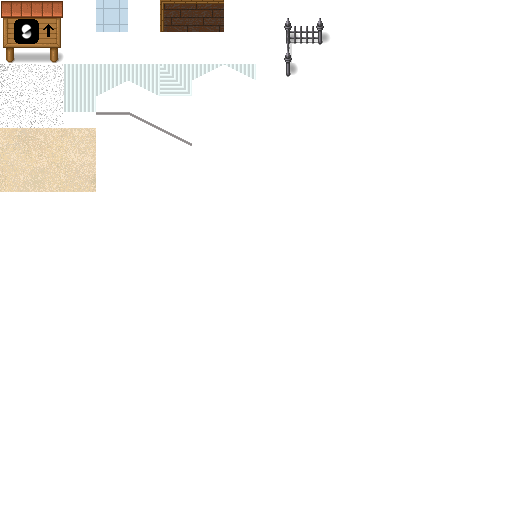
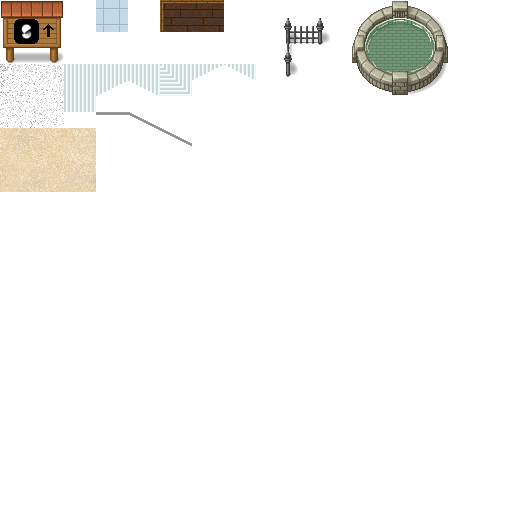
adds our waterfall vs0.1 alpha

Changed region(s): [[0.6875, 0.0, 0.875, 0.1875]]

diff --git a/COPYRIGHT.md b/COPYRIGHT.md
@@ -12,3 +12,5 @@ Dateiname | Lizenz | Quelle
 `sipgate-tileset-1.png` | ? | created by Mathias, some tiles baed on fantasy.png
 `plants.png` | CC-BY-SA 3.0 | https://opengameart.org/content/lpc-flowers-plants-fungi-wood
 `treepacknewest.png` | CC-BY-SA 3.0 / CC-BY-SA 4.0 | https://opengameart.org/content/lots-of-trees-and-plants-from-oga-db32-tilesets-pack-1
+`wateranimate2.png` | CC-BY-SA 3.0 | https://opengameart.org/content/lpc-animated-water-and-waterfalls created by ZaPaper
+`sipgate-waterfall.png` | CC-BY-SA 3.0 | https://opengameart.org/content/lpc-animated-water-and-waterfalls created by ZaPaper, modified by Mathias
